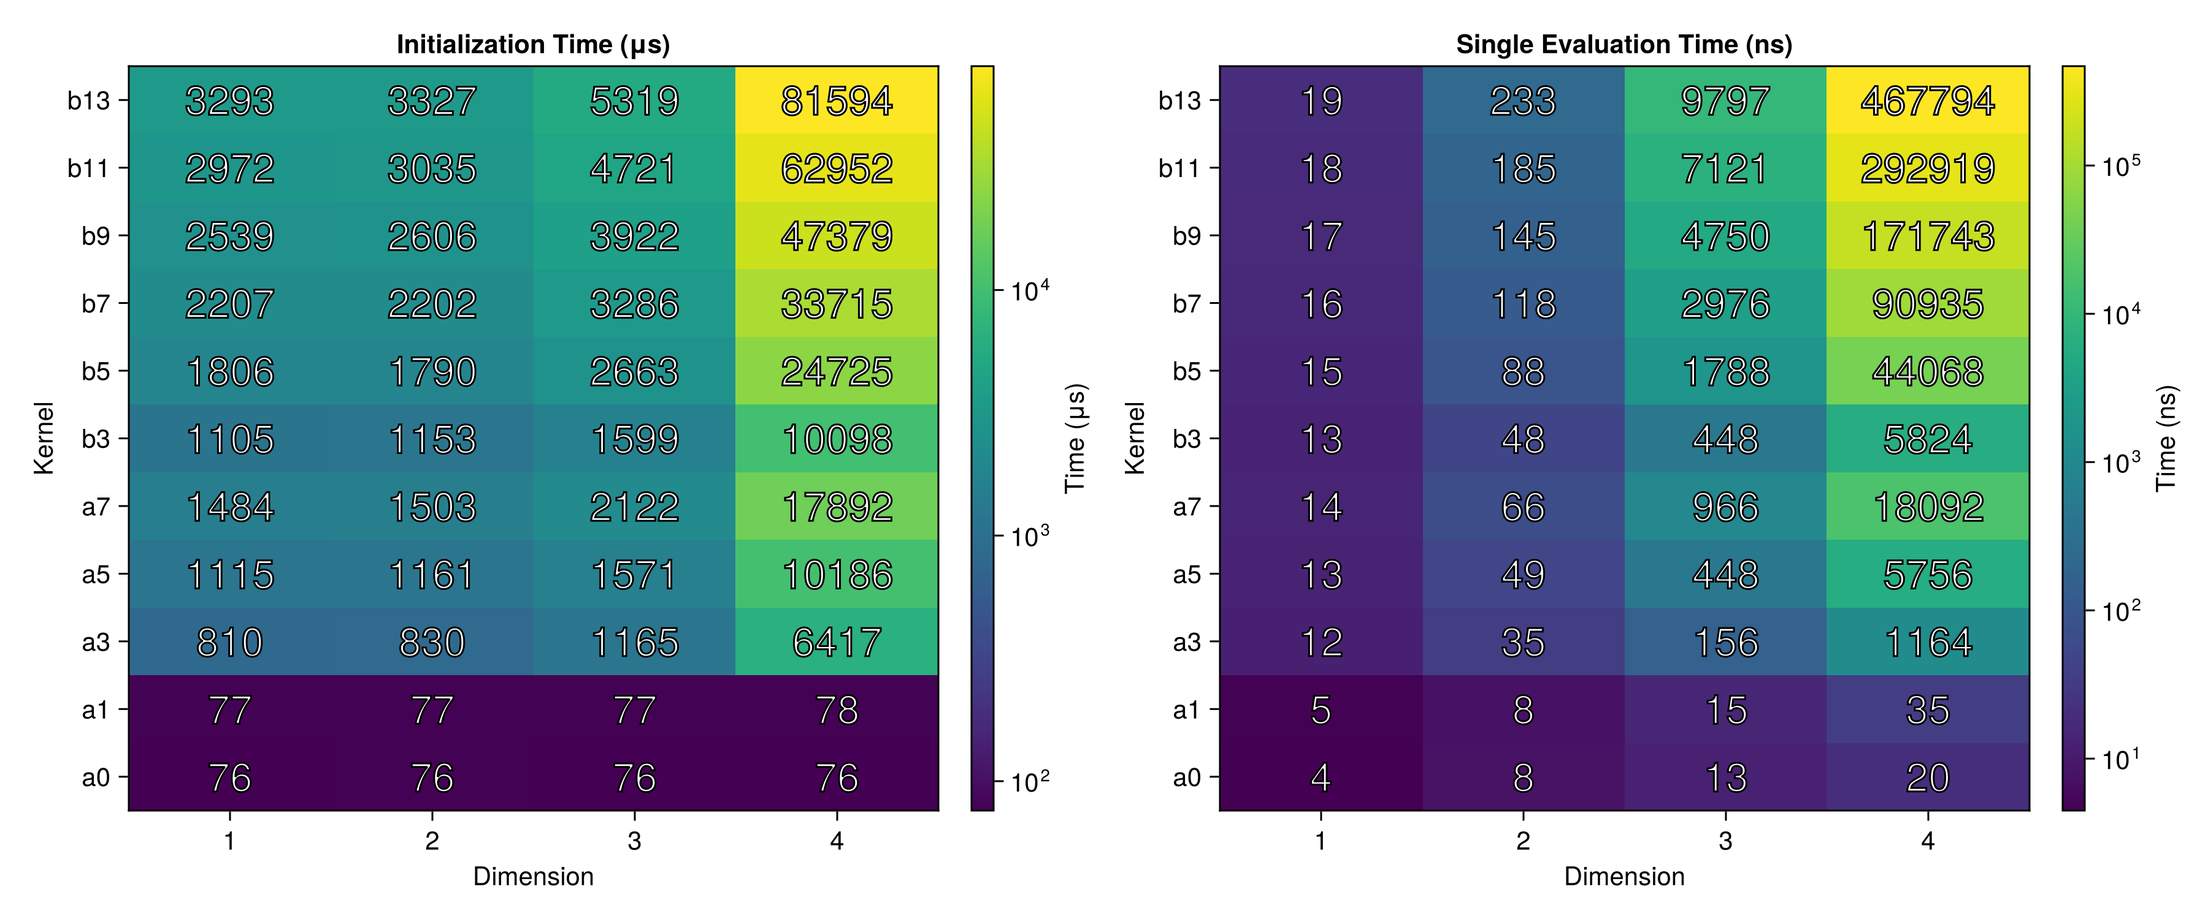
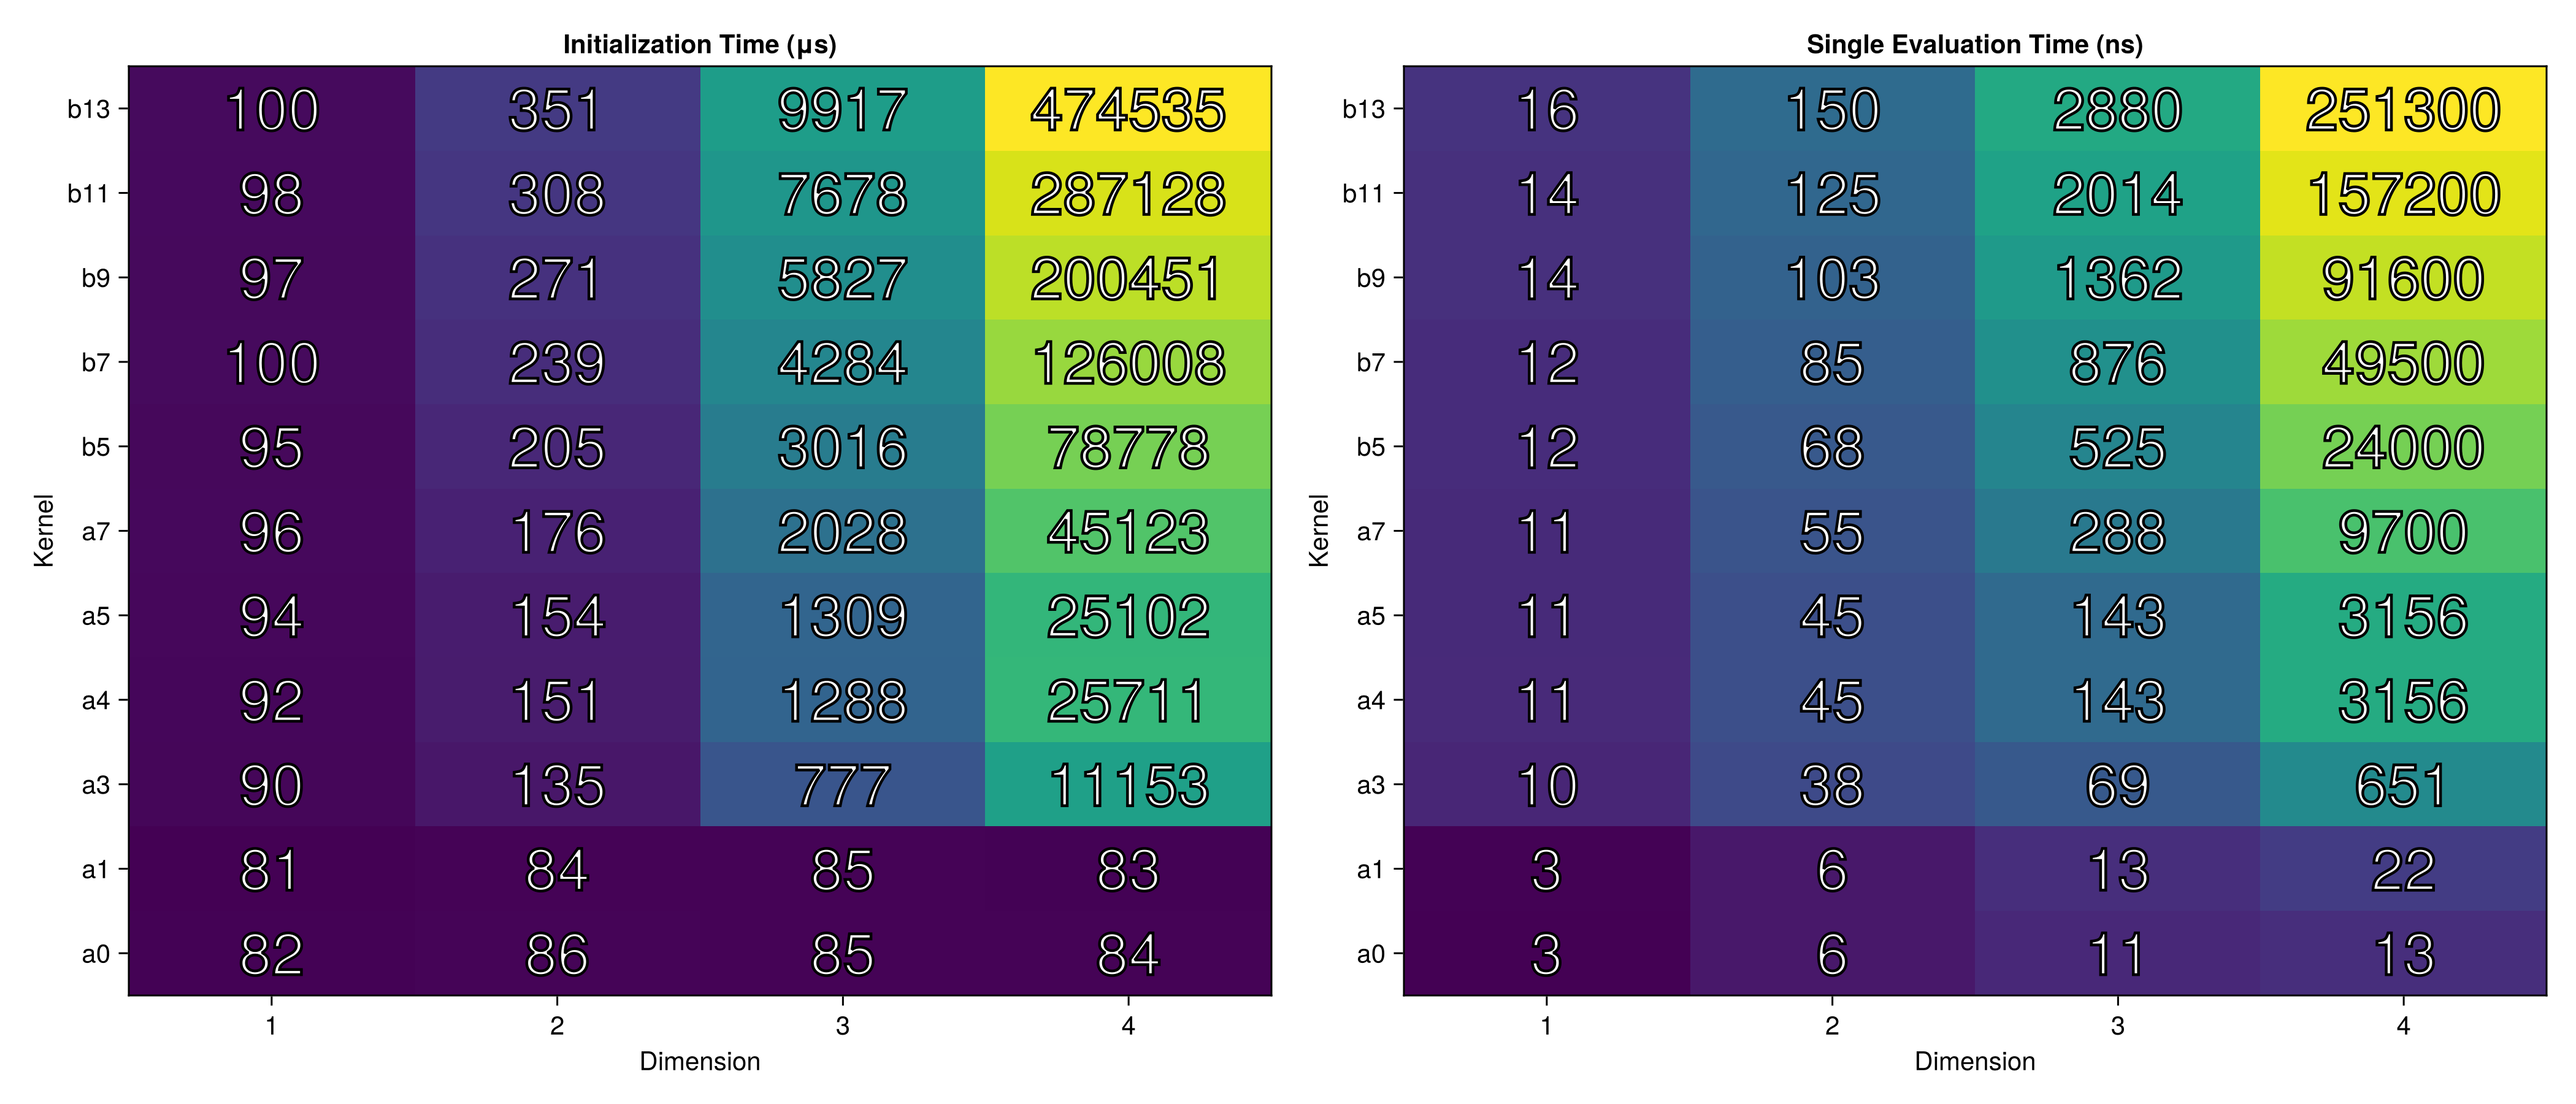
fix allocation issue, update readme

diff --git a/README.md b/README.md
@@ -100,12 +100,12 @@ Performance across dimensions and kernel families:
 
 [![Kernel performance heatmap](fig/kernel_performance_comparison.png)](fig/kernel_performance_comparison.png)
 
-**Initialization** (left panel): One-time setup cost, dominated by boundary condition computation. Ranges from ~76 μs for linear kernels to ~91 ms for 4D `:b13`.
+**Initialization** (left panel): One-time setup cost, dominated by boundary condition computation. Ranges from ~80 μs for linear kernels to ~475 ms for 4D `:b13`.
 
 **Evaluation** (right panel): Cost per interpolation call. Representative `:b5` timings:
-- 1D: 15 ns
-- 2D: 88 ns
-- 3D: 1.8 μs
+- 1D: 12 ns
+- 2D: 68 ns
+- 3D: 525 ns
 
 Evaluation cost scales as (2×eqs)ᴺ across dimensions due to tensor product structure.
 
@@ -223,7 +223,7 @@ The separable kernel design scales to arbitrary dimensions.
 
 The fast evaluation mode convolves data with precomputed kernel values, then interpolates between convolution results. The `subgrid` parameter controls this inner interpolation:
 ```julia
-itp = convolution_interpolation(x, y; subgrid=:cubic)                    # Default, highest accuracy
+itp = convolution_interpolation(x, y; subgrid=:cubic)                    # Default, high accuracy
 itp = convolution_interpolation(x, y; subgrid=:quintic)                  # Even higher accuracy
 itp = convolution_interpolation(x, y; subgrid=:linear, precompute=10_000) # Fastest evaluation
 ```
